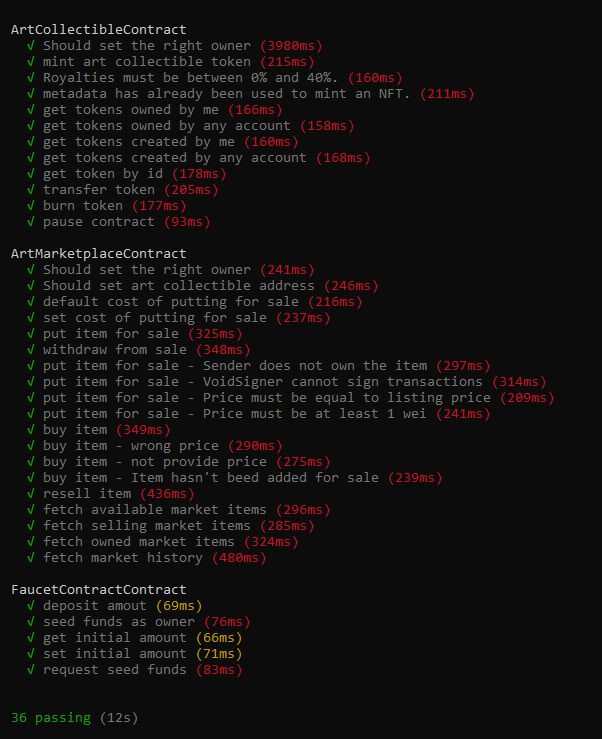
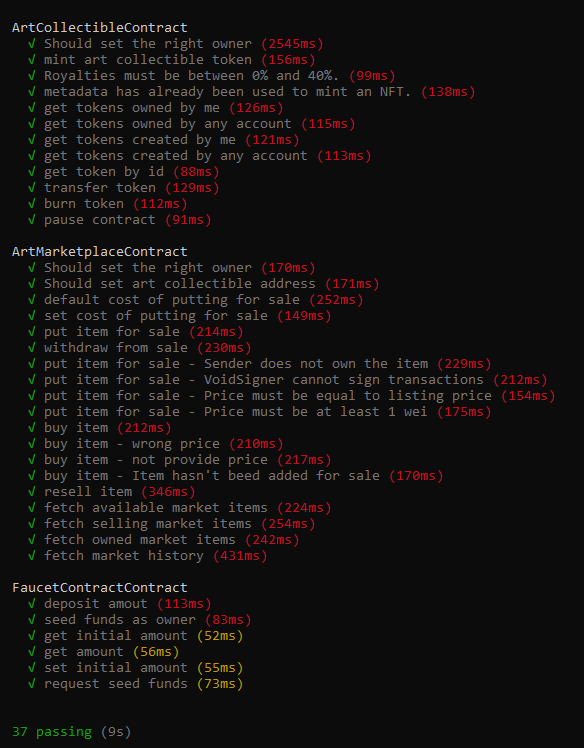
Implement get amount

Changed region(s): [[0.0, 0.0311, 0.9555, 0.9337], [0.0, 0.9648, 0.2466, 0.9959], [0.7089, 0.0934, 0.8014, 0.1556]]

diff --git a/test/FaucetContractTests.ts b/test/FaucetContractTests.ts
@@ -52,6 +52,18 @@ describe("FaucetContractContract", function () {
     expect(initialAmout).to.equal(DEFAULT_INITIAL_AMOUNT)
   })
 
+  it("get amount", async function () {
+    const { instance, owner } = await deployContractFixture()
+
+    await instance.connect(owner).deposit({
+      value: DEFAULT_AMOUT_TO_DEPOSIT_IN_ETHER
+    })
+    let currentAmount = await instance.connect(owner).getAmount()
+    
+    expect(currentAmount).to.equal(DEFAULT_AMOUT_TO_DEPOSIT_IN_ETHER)
+  })
+
+
   it("set initial amount", async function () {
     const { instance, owner } = await deployContractFixture()
     let newInitialAmout = "400000000000000000"
